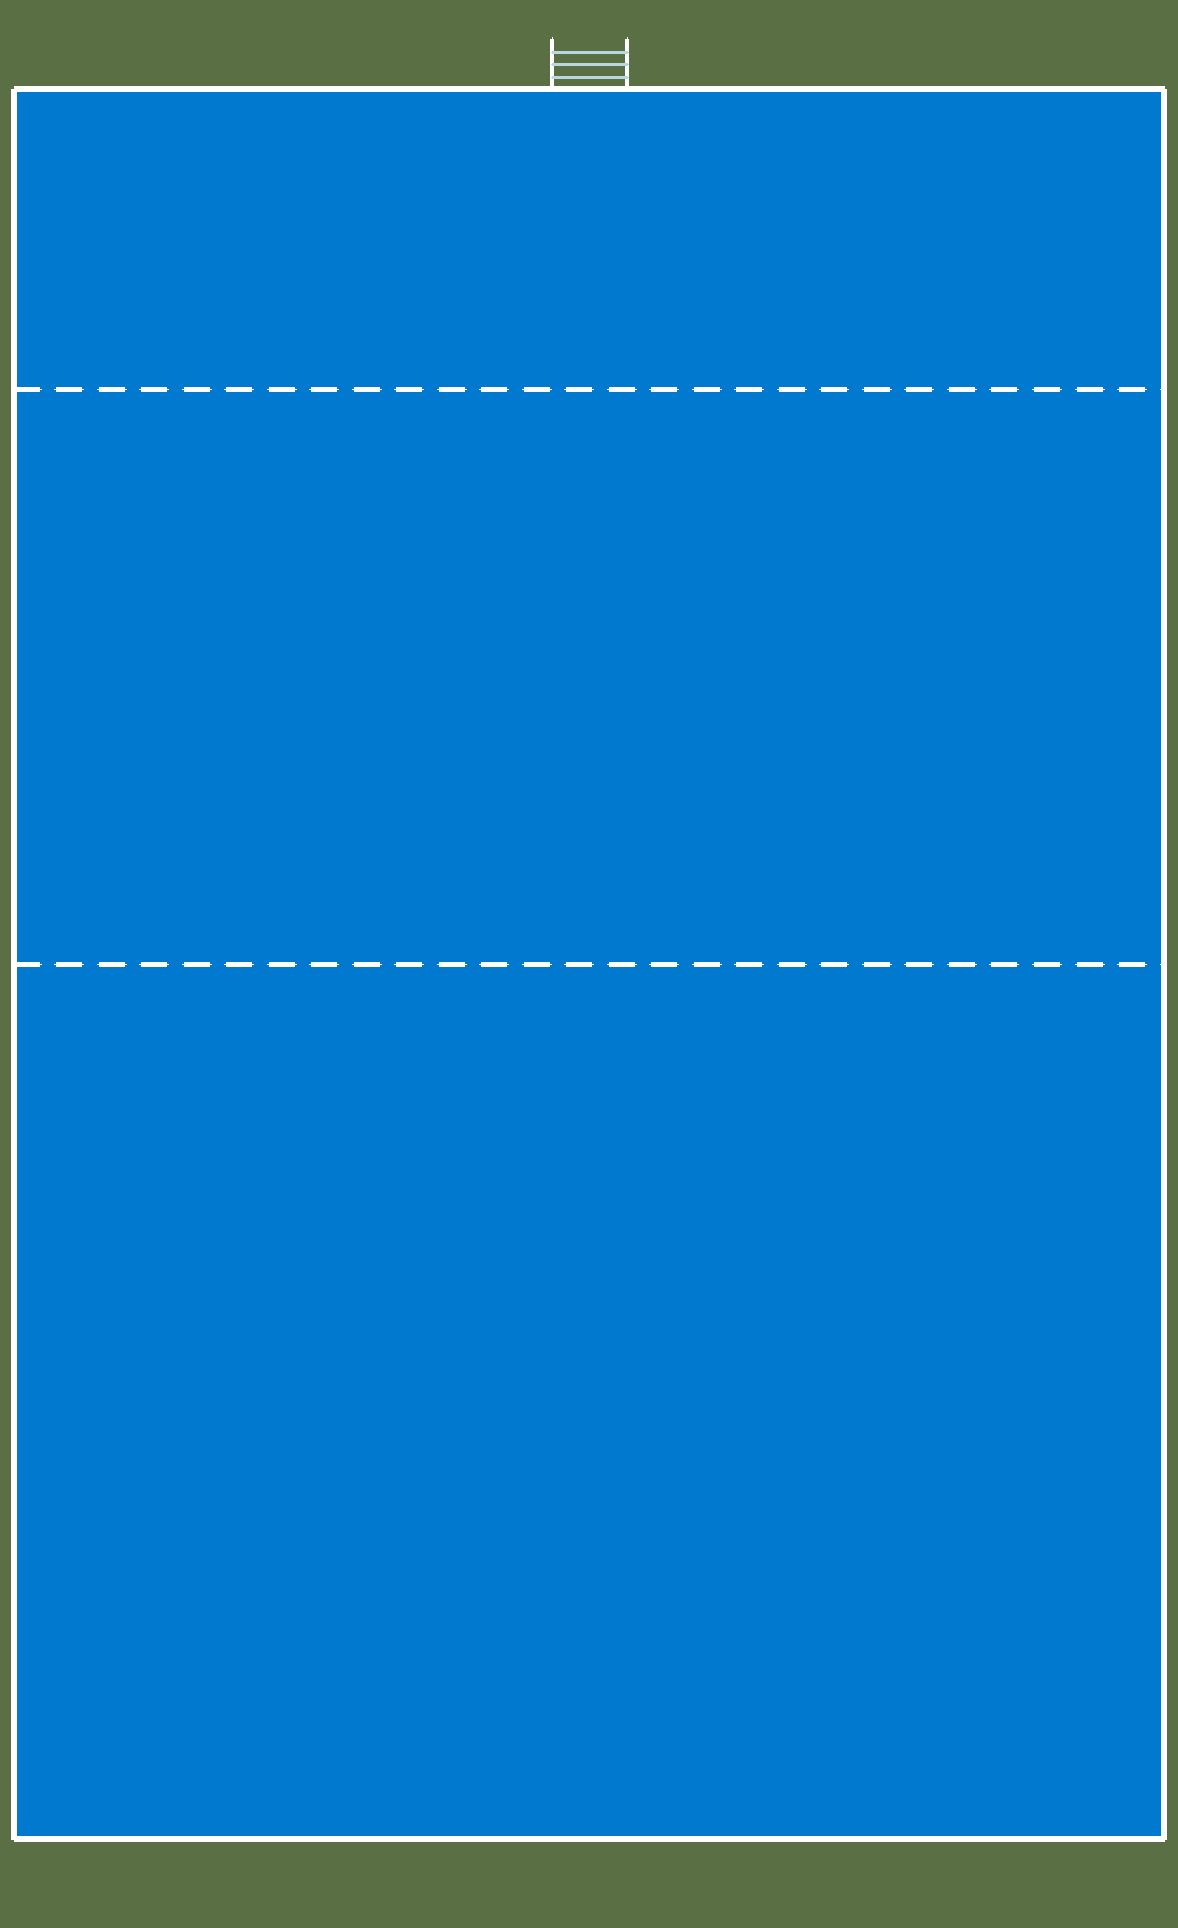
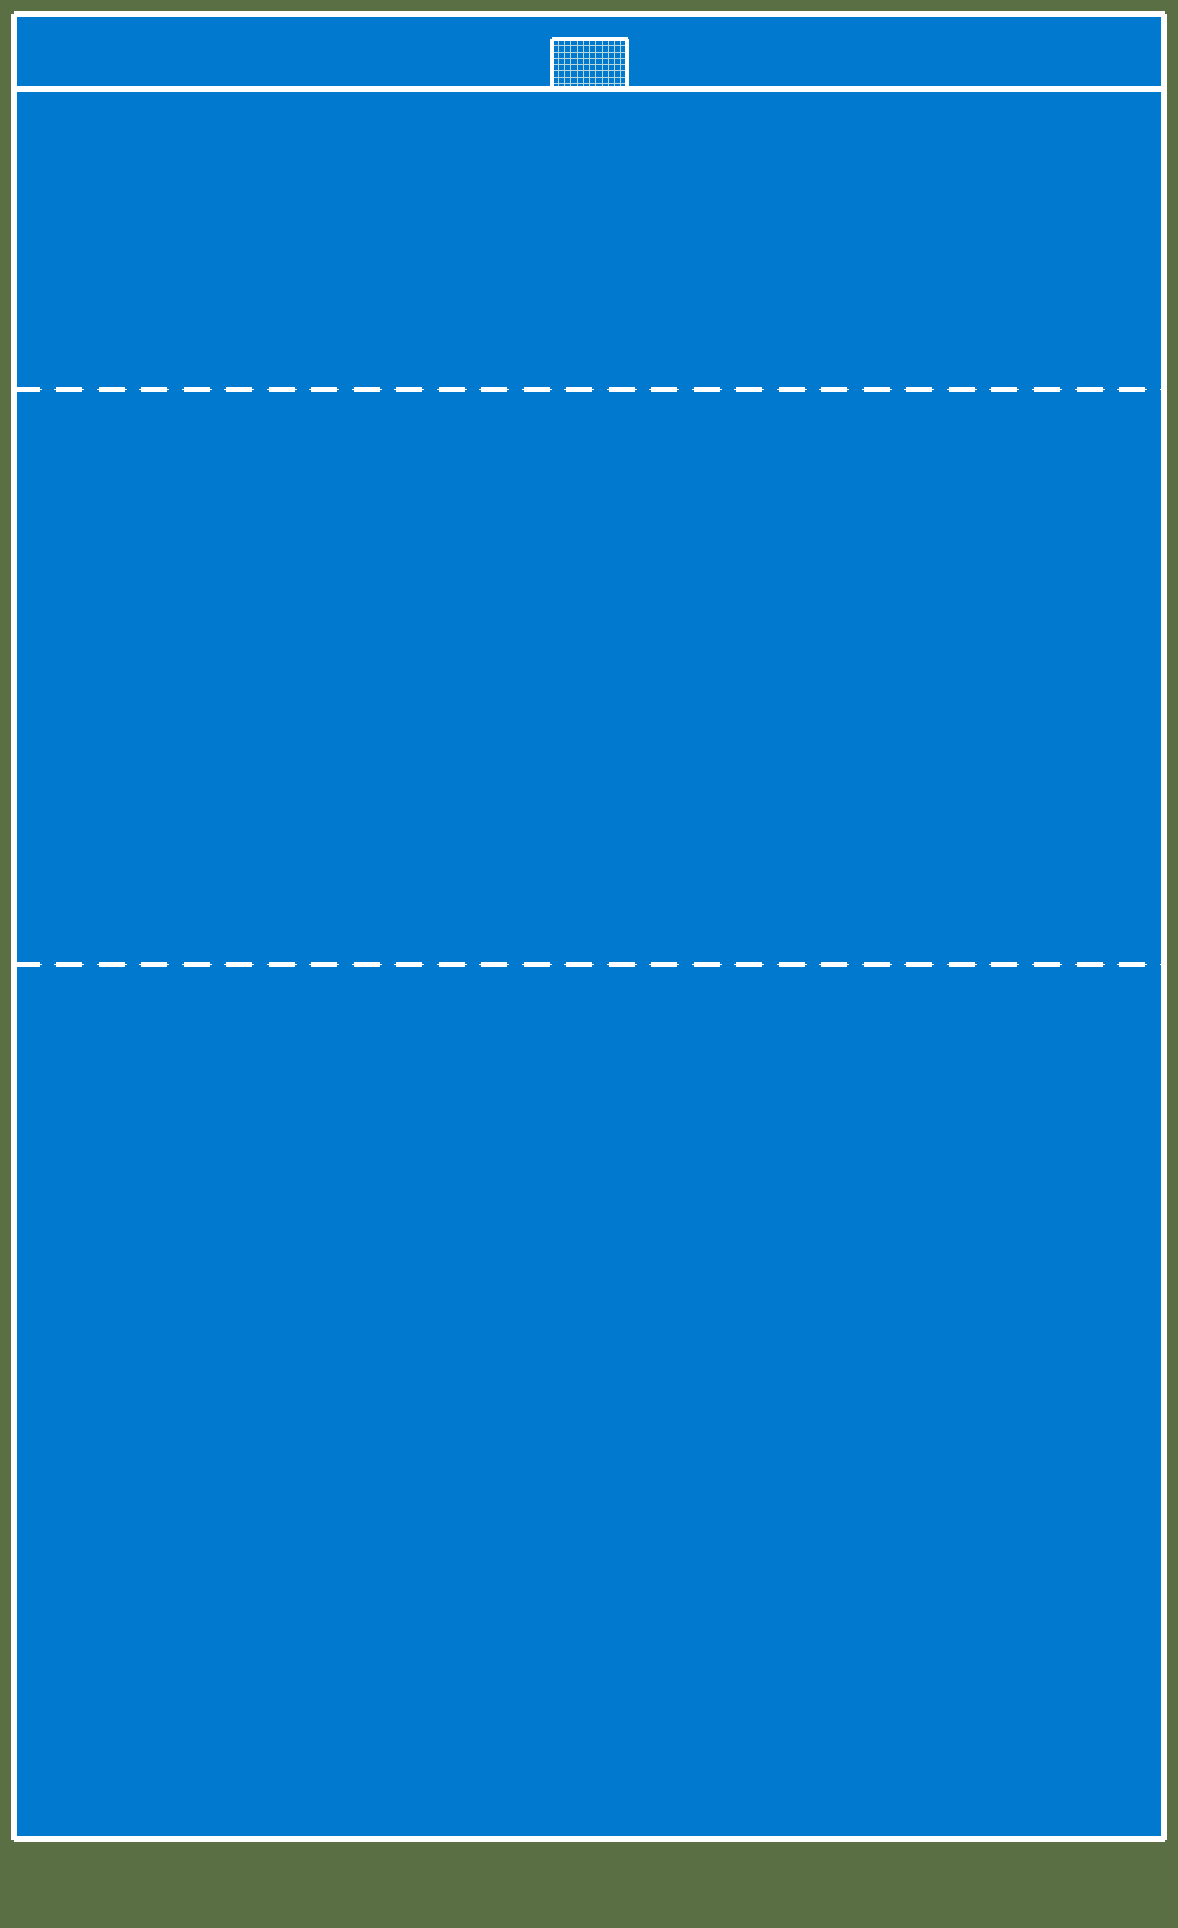
Arco rectangular con malla densa sobre agua y escala compartida en la pizarra
FONDO.png / generar-fondo.py:
- El único arco superior pasa a ser un rectángulo de 1,5 m x 1 m (75x50 px)
  con red dibujada como malla densa de cuadrícula, igual que la referencia
  antigua, en lugar de tres travesaños sueltos.
- Se agrega la franja de agua #0179ce detrás de la línea de gol para que el
  arco quede sobre agua y no sobre el marco verde, sin mover la línea de gol
  ni cambiar las medidas del campo (23 x 35 m, 1150 x 1750 px, 50 px/m).
- Se mantienen: PNG 1178x1928, una sola línea de gol sólida arriba, línea de
  mitad punteada, línea de 6 m punteada, sin arco inferior ni áreas de
  portería. Toda la geometría sigue expresada en metros.

script.js:
- El fondo, los botes, la pelota y los trazos comparten ahora la misma escala
  base de ajuste del fondo, el mismo origen y el mismo zoom/pan mediante una
  única transformación del lienzo; antes el fondo se ajustaba a la ventana y
  los objetos se dibujaban en coordenadas nativas.
- El mapeo inverso de pantalla a mundo usa esa misma escala y origen, así los
  elementos siguen siendo seleccionables y movibles con cualquier zoom.
- Formación inicial reordenada sobre el costado izquierdo en dos columnas
  (rojo en x=2,2 m y azul en x=4,8 m), expresada en metros, y pelota en el
  centro del campo con radio 10.

Changed region(s): [[0.0, 0.0, 1.0, 0.0622]]

diff --git a/script.js b/script.js
@@ -26,9 +26,28 @@ function metrosAMundo(xMetros, yMetros) {
   };
 }
 
+/* Ajuste base del fondo: el PNG se encaja en la ventana y ese mismo encaje
+   (escala + origen) lo comparten el fondo, los botes, la pelota y los trazos.
+   Las coordenadas de mundo son siempre píxeles nativos del fondo. */
+let fondoAncho = FONDO_ANCHO_PX;
+let fondoAlto = FONDO_ALTO_PX;
+const base = { escala: 1, x: 0, y: 0 };
+
+function calcularBase() {
+  base.escala = Math.min(canvas.width / fondoAncho, canvas.height / fondoAlto);
+  base.x = (canvas.width - fondoAncho * base.escala) / 2;
+  base.y = (canvas.height - fondoAlto * base.escala) / 2;
+}
+
+// Escala final con la que se pinta todo: ajuste del fondo por el zoom actual.
+function escalaTotal() {
+  return base.escala * vista.zoom;
+}
+
 function ajustarCanvas() {
   canvas.width = window.innerWidth;
   canvas.height = window.innerHeight;
+  calcularBase();
 }
 ajustarCanvas();
 window.addEventListener("resize", ajustarCanvas);
@@ -50,18 +69,26 @@ const punteros = new Map(); // punteros activos sobre el canvas
 
 const clamp = (v, a, b) => Math.max(a, Math.min(b, v));
 
-// de coordenadas de pantalla a coordenadas del campo
+// de coordenadas de pantalla a coordenadas del campo (mundo = píxeles del fondo).
+// Usa la misma escala base y el mismo origen con los que se dibuja el fondo,
+// para que todo siga siendo seleccionable y movible con cualquier zoom.
 function aMundo(sx, sy) {
-  return { x: (sx - vista.x) / vista.zoom, y: (sy - vista.y) / vista.zoom };
+  const escala = escalaTotal();
+  return {
+    x: (sx - (base.x * vista.zoom + vista.x)) / escala,
+    y: (sy - (base.y * vista.zoom + vista.y)) / escala
+  };
 }
 
 // zoom manteniendo fijo el punto (sx, sy)
 function zoomEn(sx, sy, factor) {
   const zoom = clamp(vista.zoom * factor, ZOOM_MIN, ZOOM_MAX);
-  const w = aMundo(sx, sy);
+  // punto de referencia en el espacio ya ajustado al fondo (zoom 1, sin pan)
+  const ux = (sx - vista.x) / vista.zoom;
+  const uy = (sy - vista.y) / vista.zoom;
   vista.zoom = zoom;
-  vista.x = sx - w.x * zoom;
-  vista.y = sy - w.y * zoom;
+  vista.x = sx - ux * zoom;
+  vista.y = sy - uy * zoom;
   vistaObjetivo = null;
 }
 
@@ -84,15 +111,15 @@ imgAzul.src = "KayapoloRC__1_-removebg-preview.png";
 const TAM = 70;
 const botes = [];
 
-// Formación inicial: todas las posiciones nacen en metros y quedan dentro del campo.
-const formacionRoja = [
-  [11.5, 3.0], [8.5, 5.2], [14.5, 5.2], [6.0, 8.0],
-  [17.0, 8.0], [9.0, 11.0], [14.0, 11.0], [11.5, 14.0]
-];
-const formacionAzul = [
-  [11.5, 32.0], [8.5, 29.8], [14.5, 29.8], [6.0, 27.0],
-  [17.0, 27.0], [9.0, 24.0], [14.0, 24.0], [11.5, 21.0]
-];
+// Formación inicial: los dos equipos ordenados sobre el costado izquierdo del
+// campo, en dos columnas. Todas las posiciones nacen en metros y quedan dentro
+// del campo (0..23 m de ancho, 0..35 m de largo).
+const COLUMNA_ROJA_X_M = 2.2;
+const COLUMNA_AZUL_X_M = 4.8;
+const FILAS_FORMACION_M = [5.0, 8.5, 12.0, 15.5, 19.0, 22.5, 26.0, 29.5];
+
+const formacionRoja = FILAS_FORMACION_M.map(y => [COLUMNA_ROJA_X_M, y]);
+const formacionAzul = FILAS_FORMACION_M.map(y => [COLUMNA_AZUL_X_M, y]);
 formacionRoja.forEach(([x, y]) => {
   const posicion = metrosAMundo(x, y);
   botes.push({ img: imgRojo, ...posicion, rot: 0, scale: 1 });
@@ -103,7 +130,7 @@ formacionAzul.forEach(([x, y]) => {
 });
 
 const centroCampo = metrosAMundo(CAMPO_ANCHO_M / 2, CAMPO_LARGO_M / 2);
-const pelota = { x: centroCampo.x, y: centroCampo.y, r: 8 };
+const pelota = { x: centroCampo.x, y: centroCampo.y, r: 10 };
 
 const trazos = [];
 let trazoActual = [];
@@ -180,18 +207,17 @@ window.addEventListener("keydown", e => {
 
 function dibujarFondo() {
   if (!fondo.complete || !fondo.width) return;
-  const r = Math.min(canvas.width / fondo.width, canvas.height / fondo.height);
-  const w = fondo.width * r;
-  const h = fondo.height * r;
-  ctx.drawImage(fondo, (canvas.width - w) / 2, (canvas.height - h) / 2, w, h);
+  // El fondo se dibuja en coordenadas de mundo: la escala de ajuste y el
+  // origen ya vienen aplicados en la transformación del lienzo.
+  ctx.drawImage(fondo, 0, 0, fondoAncho, fondoAlto);
 }
 
 function anillo(x, y, radio) {
   ctx.beginPath();
   ctx.arc(x, y, radio, 0, Math.PI * 2);
   ctx.strokeStyle = "rgba(255, 255, 255, 0.95)";
-  ctx.lineWidth = 2.5 / vista.zoom;
-  ctx.setLineDash([7 / vista.zoom, 6 / vista.zoom]);
+  ctx.lineWidth = 2.5 / escalaTotal();
+  ctx.setLineDash([7 / escalaTotal(), 6 / escalaTotal()]);
   ctx.stroke();
   ctx.setLineDash([]);
 }
@@ -215,7 +241,7 @@ function dibujarPelota() {
   ctx.arc(pelota.x, pelota.y, pelota.r, 0, Math.PI * 2);
   ctx.fillStyle = "white";
   ctx.fill();
-  ctx.lineWidth = 2 / vista.zoom;
+  ctx.lineWidth = 2 / escalaTotal();
   ctx.strokeStyle = "rgba(15, 23, 42, 0.75)";
   ctx.stroke();
 
@@ -224,7 +250,7 @@ function dibujarPelota() {
 
 function dibujarTrazos() {
   ctx.strokeStyle = "black";
-  ctx.lineWidth = 3;
+  ctx.lineWidth = 3 / escalaTotal();
   ctx.lineJoin = "round";
   ctx.lineCap = "round";
   trazos.forEach(t => {
@@ -252,7 +278,14 @@ function loop() {
 
   ctx.setTransform(1, 0, 0, 1, 0, 0);
   ctx.clearRect(0, 0, canvas.width, canvas.height);
-  ctx.setTransform(vista.zoom, 0, 0, vista.zoom, vista.x, vista.y);
+  // Una sola transformación para todo: escala base del fondo × zoom, con el
+  // mismo origen horizontal y vertical y el mismo desplazamiento (pan).
+  const escala = escalaTotal();
+  ctx.setTransform(
+    escala, 0, 0, escala,
+    base.x * vista.zoom + vista.x,
+    base.y * vista.zoom + vista.y
+  );
   dibujarFondo();
   dibujarBotes();
   dibujarPelota();
@@ -269,6 +302,12 @@ const imagenLista = () => {
 [fondo, imgRojo, imgAzul].forEach(img => {
   img.addEventListener("load", imagenLista);
   img.addEventListener("error", imagenLista);
+});
+// El tamaño real del fondo define la escala base compartida por todo.
+fondo.addEventListener("load", () => {
+  fondoAncho = fondo.naturalWidth || FONDO_ANCHO_PX;
+  fondoAlto = fondo.naturalHeight || FONDO_ALTO_PX;
+  calcularBase();
 });
 
 /* ================= INTERACCIÓN (mouse / táctil / lápiz) ================= */
@@ -297,7 +336,9 @@ canvas.addEventListener("pointerdown", e => {
 
   const w = aMundo(mx, my);
   const toque = e.pointerType === "touch";
-  const margen = toque ? 14 : 4; // targets más generosos con el dedo
+  // targets más generosos con el dedo: el margen se expresa en píxeles de
+  // pantalla y se traduce a mundo con la misma escala compartida.
+  const margen = (toque ? 14 : 4) / escalaTotal();
 
   // pelota
   if (Math.hypot(w.x - pelota.x, w.y - pelota.y) < pelota.r + 6 + margen) {
@@ -360,7 +401,8 @@ canvas.addEventListener("pointermove", e => {
   }
 
   if (modo === "escalar" && seleccionado && seleccionado.scale !== undefined) {
-    seleccionado.scale = clamp(1 + (w.y - seleccionado.y) / 150, 0.3, 2);
+    const recorrido = (w.y - seleccionado.y) * escalaTotal();
+    seleccionado.scale = clamp(1 + recorrido / 150, 0.3, 2);
   }
 
   if (modo === "lapiz" && dibujando) {

diff --git a/generar-fondo.py b/generar-fondo.py
@@ -32,6 +32,12 @@ POSTE_ARCO_M = 0.08
 # Medidas reglamentarias del único arco que se dibuja sobre el campo.
 ARCO_ANCHO_M = 1.5
 ARCO_PROFUNDIDAD_M = 1.0
+# Paso de la malla del arco: da una cuadrícula densa dentro del rectángulo.
+ARCO_MALLA_PASO_M = 0.125
+
+# Franja de agua que queda por detrás de la línea de gol para que el arco
+# se apoye sobre agua y no sobre el marco verde.
+AGUA_DETRAS_ARCO_M = 1.5
 
 # Medidas de las líneas punteadas, expresadas en metros.
 LINEA_SEIS_METROS_M = 6
@@ -103,13 +109,32 @@ def linea_punteada_horizontal(im, y_m):
 
 
 def dibujar_arco_superior(im):
-    """Dibuja el único arco, centrado arriba, con su red de un metro de fondo."""
+    """Dibuja el único arco: un rectángulo de 1,5 m x 1 m con malla densa.
+
+    El arco queda centrado sobre la línea de gol superior, apoyado sobre la
+    franja de agua que hay detrás de esa línea, tal como en la referencia.
+    """
     lateral_izquierdo_m = (CAMPO_ANCHO_M - ARCO_ANCHO_M) / 2
     lateral_derecho_m = lateral_izquierdo_m + ARCO_ANCHO_M
     fondo_m = -ARCO_PROFUNDIDAD_M
 
-    # Los postes delimitan exactamente 1,5 m entre sus líneas centrales y
-    # se prolongan exactamente 1 m fuera de la línea de gol.
+    # Malla: cuadrícula densa de hilos verticales y horizontales que cubre
+    # todo el interior del rectángulo del arco (1,5 m x 1 m = 75 x 50 px).
+    hilo_m = 0.0
+    while hilo_m <= ARCO_ANCHO_M + 1e-9:
+        x_m = lateral_izquierdo_m + hilo_m
+        linea_campo(im, x_m, 0, x_m, fondo_m, RED, 0.02)
+        hilo_m += ARCO_MALLA_PASO_M
+
+    hilo_m = 0.0
+    while hilo_m <= ARCO_PROFUNDIDAD_M + 1e-9:
+        y_m = -hilo_m
+        linea_campo(im, lateral_izquierdo_m, y_m, lateral_derecho_m, y_m, RED, 0.02)
+        hilo_m += ARCO_MALLA_PASO_M
+
+    # Marco blanco del arco: los dos postes delimitan exactamente 1,5 m entre
+    # sus líneas centrales y se prolongan exactamente 1 m fuera de la línea de
+    # gol, donde los cierra el travesaño posterior.
     linea_campo(
         im, lateral_izquierdo_m, 0, lateral_izquierdo_m, fondo_m,
         BLANCO, POSTE_ARCO_M,
@@ -118,15 +143,10 @@ def dibujar_arco_superior(im):
         im, lateral_derecho_m, 0, lateral_derecho_m, fondo_m,
         BLANCO, POSTE_ARCO_M,
     )
-
-    # Travesaños de red dentro del arco. El borde inferior coincide con la
-    # única línea de gol y se dibuja una sola vez junto con el borde del campo.
-    for profundidad_m in (0.25, 0.5, 0.75):
-        linea_campo(
-            im, lateral_izquierdo_m, -profundidad_m,
-            lateral_derecho_m, -profundidad_m,
-            RED, LINEA_M / 2,
-        )
+    linea_campo(
+        im, lateral_izquierdo_m, fondo_m, lateral_derecho_m, fondo_m,
+        BLANCO, POSTE_ARCO_M,
+    )
 
 
 def generar():
@@ -138,6 +158,12 @@ def generar():
     # líneas de referencia, porque mide 23 × 35 metros a 50 píxeles por metro.
     rectangulo(im, campo_x1, campo_y1, campo_x2, campo_y2, AGUA)
 
+    # Agua detrás de la línea de gol: la pileta sigue más allá del campo
+    # jugable, así el arco se apoya sobre agua y no sobre el marco verde.
+    # No mueve la línea de gol ni cambia las medidas del campo.
+    _, agua_detras_y = punto_campo(0, -AGUA_DETRAS_ARCO_M)
+    rectangulo(im, campo_x1, agua_detras_y, campo_x2, campo_y1, AGUA)
+
     dibujar_arco_superior(im)
 
     # Línea de seis metros desde la única línea de gol superior y línea de
@@ -145,12 +171,21 @@ def generar():
     linea_punteada_horizontal(im, LINEA_SEIS_METROS_M)
     linea_punteada_horizontal(im, LINEA_MITAD_M)
 
-    # Borde exterior blanco. Su arista superior es la única línea de gol
-    # sólida; no se dibuja una segunda línea de gol ni otro arco abajo.
+    # Borde exterior blanco. La arista superior del campo jugable es la única
+    # línea de gol sólida; no se dibuja una segunda línea de gol ni otro arco
+    # abajo. Los laterales acompañan también al agua que queda detrás del arco.
     linea_campo(im, 0, 0, CAMPO_ANCHO_M, 0, BLANCO, BORDE_M)
     linea_campo(im, 0, CAMPO_LARGO_M, CAMPO_ANCHO_M, CAMPO_LARGO_M, BLANCO, BORDE_M)
-    linea_campo(im, 0, 0, 0, CAMPO_LARGO_M, BLANCO, BORDE_M)
-    linea_campo(im, CAMPO_ANCHO_M, 0, CAMPO_ANCHO_M, CAMPO_LARGO_M, BLANCO, BORDE_M)
+    linea_campo(im, 0, -AGUA_DETRAS_ARCO_M, 0, CAMPO_LARGO_M, BLANCO, BORDE_M)
+    linea_campo(
+        im, CAMPO_ANCHO_M, -AGUA_DETRAS_ARCO_M,
+        CAMPO_ANCHO_M, CAMPO_LARGO_M, BLANCO, BORDE_M,
+    )
+    # Cierre superior de la pileta, por detrás del arco.
+    linea_campo(
+        im, 0, -AGUA_DETRAS_ARCO_M, CAMPO_ANCHO_M, -AGUA_DETRAS_ARCO_M,
+        BLANCO, BORDE_M,
+    )
 
     return im
 
